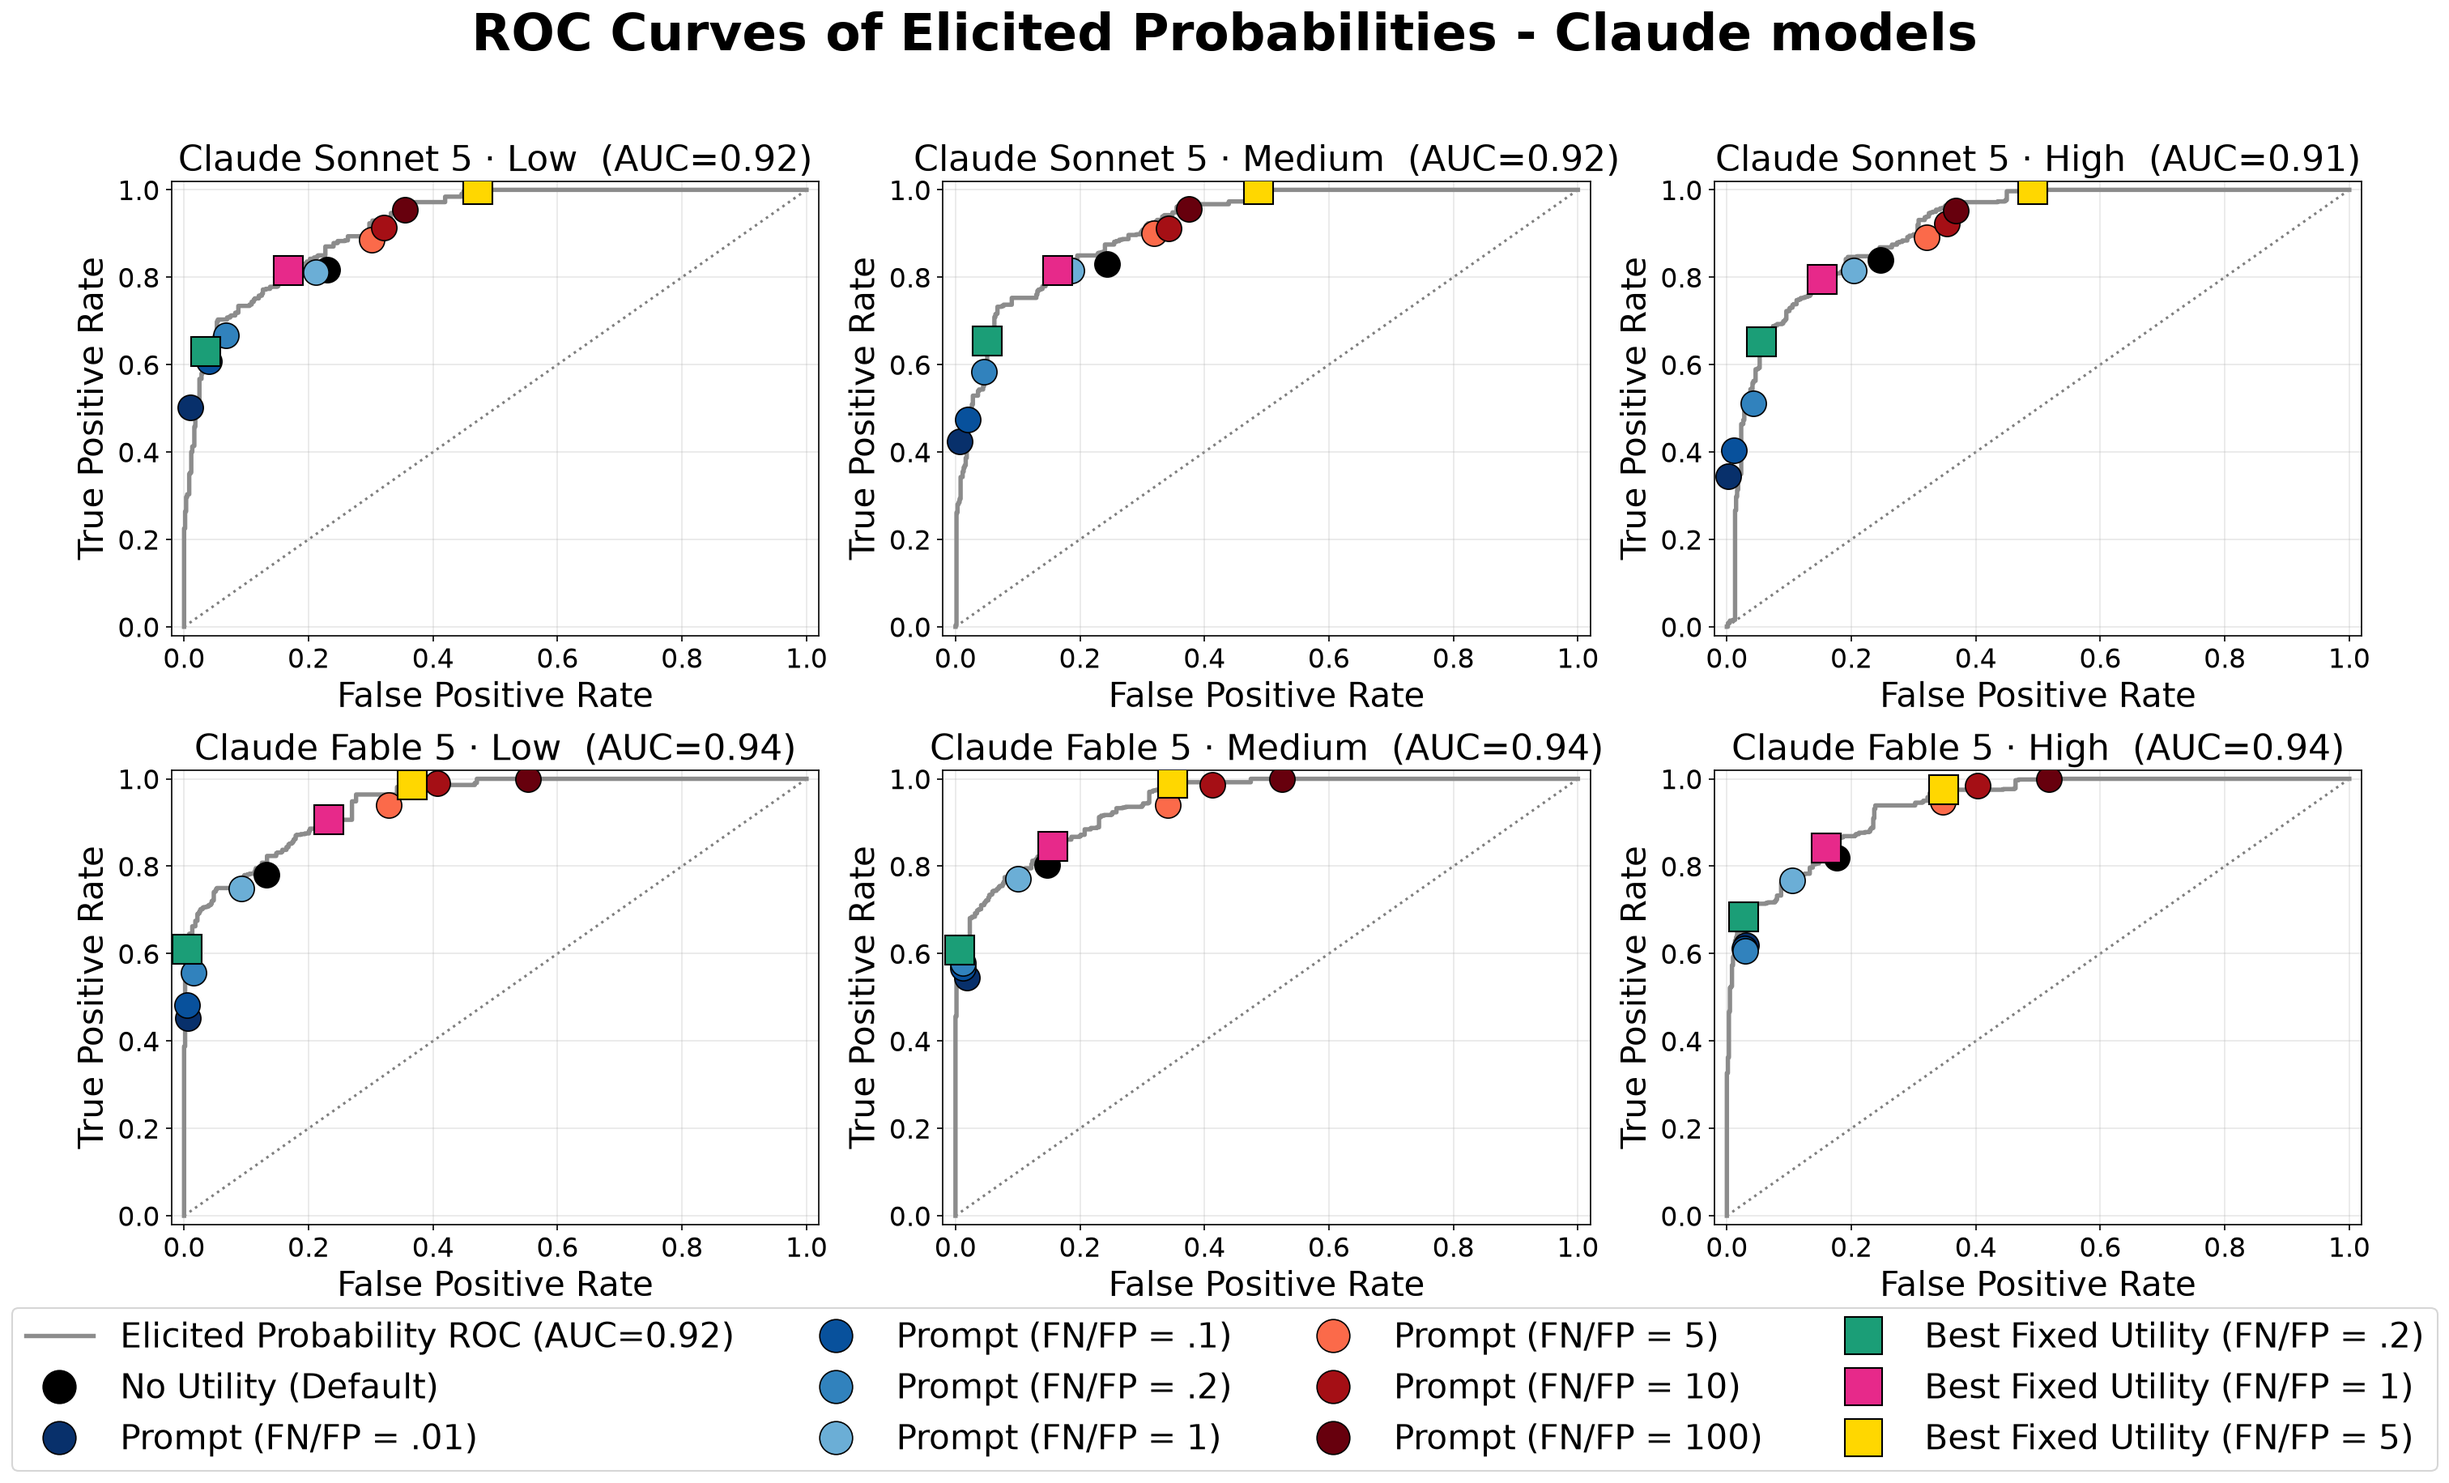
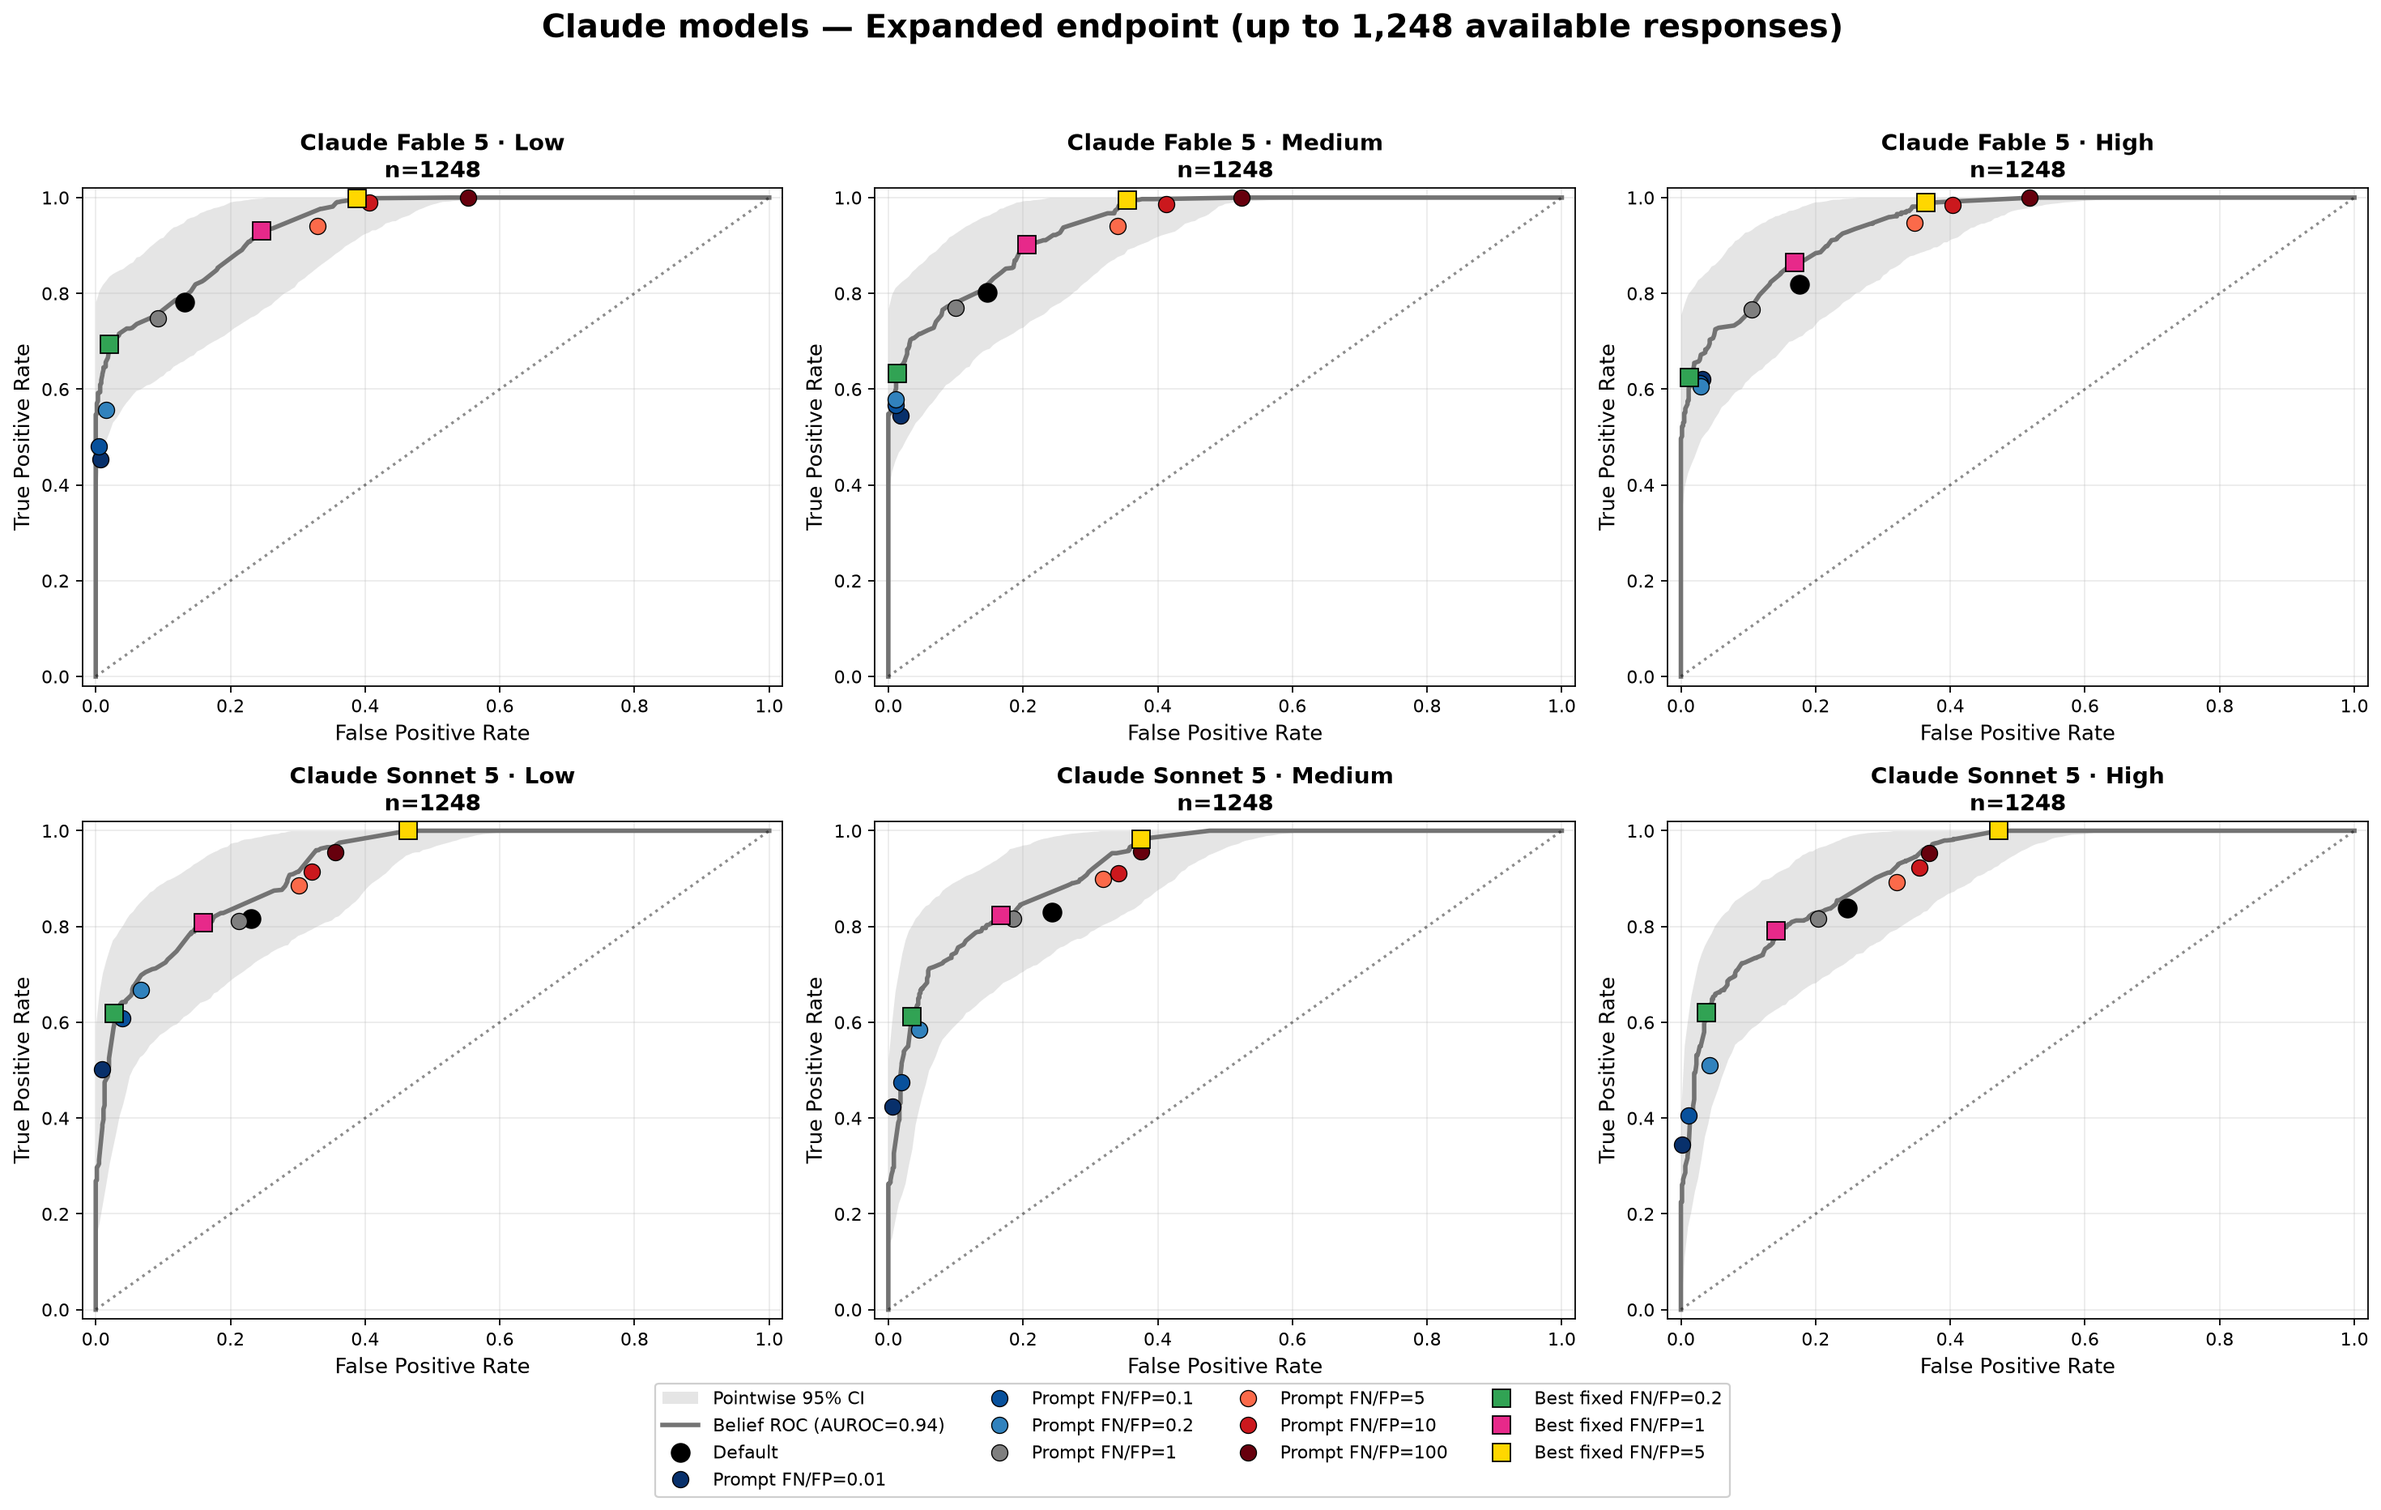
Use the manuscript ROC figures with bootstrap confidence bands
The eight ROC figures (Figures 1 and 2, Extended Data Figures 1 and 2) are the
five-run versions with 95% bootstrap bands; the READMEs now state which run
reproduces which figures.

diff --git a/README.md b/README.md
@@ -101,19 +101,22 @@ python -m venv .venv
 source .venv/bin/activate
 
 pip install -r requirements.txt
-python run_analysis.py --single-run   # the 22 figures as they appear in the manuscript
-python run_analysis.py                # the same figures using the five-run mean belief, with bootstrap bands
+python run_analysis.py                # five-run mean belief with bootstrap bands: the manuscript's ROC figures
+python run_analysis.py --single-run   # one belief elicitation per case: every other manuscript figure
 ```
 
 The analysis runs entirely offline from the included data.
 `nature_medicine_paper/figures/` holds the exact figure files included in the
 manuscript; [`nature_medicine_paper/figures/README.md`](nature_medicine_paper/figures/README.md)
 maps each file to its figure number in the paper. `run_analysis.py` never
-overwrites them: `--single-run` (one belief elicitation per case, as in the
-manuscript) writes to `nature_medicine_paper/figures/regenerated/single_run/`
-and `analysis_summary_single_run.json`; the default run uses the five
-repetitions in `data/belief_repetitions/` and writes to
+overwrites them: `--single-run` (one belief elicitation per case, which is how
+every manuscript figure other than the ROC figures was produced) writes to
+`nature_medicine_paper/figures/regenerated/single_run/` and
+`analysis_summary_single_run.json`; the default run uses the five repetitions in
+`data/belief_repetitions/` and writes to
 `nature_medicine_paper/figures/regenerated/five_run/` and `analysis_summary.json`.
+The manuscript's ROC figures (Figures 1 and 2, Extended Data Figures 1 and 2)
+come from this five-run analysis.
 The `regenerated/` folders are created by the command and are not tracked in
 the repository, so the only figure files committed are the manuscript's.
 Both summaries record the numerical results, sample coverage, bootstrap

diff --git a/nature_medicine_paper/figures/README.md b/nature_medicine_paper/figures/README.md
@@ -1,9 +1,11 @@
 # Manuscript figures
 
 These are the exact image files that appear in the main manuscript, listed by
-figure number. `python run_analysis.py --single-run` regenerates every one of them into
-`regenerated/single_run/` under the same file names, and `python run_analysis.py` writes the
-five-run versions with bootstrap bands into `regenerated/five_run/`; those folders are created
+figure number. The eight ROC figures (Figures 1 and 2 and Extended Data Figures 1 and 2)
+are the five-run versions with bootstrap confidence bands; `python run_analysis.py`
+regenerates them into `regenerated/five_run/` under the same file names. Every other
+figure was produced from a single belief elicitation per case; `python run_analysis.py
+--single-run` regenerates those into `regenerated/single_run/`. Both folders are created
 on demand and are not tracked in the repository.
 
 | Manuscript figure | File | Content |
